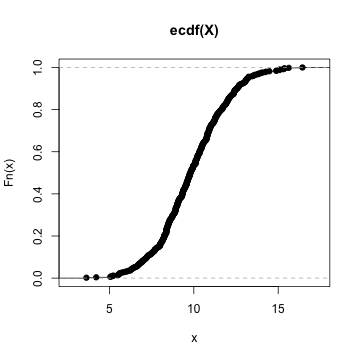
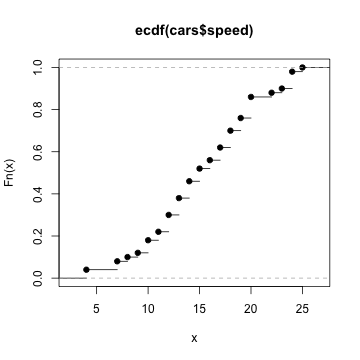
Make

diff --git a/slides/03_01_sampling.html b/slides/03_01_sampling.html
@@ -26,10 +26,6 @@ class: big, middle
 
 ## Module 3: Simulation and Resampling Methods
 
----
-class: big, middle
-
-## Probability and Sampling
 
 ---
 
@@ -37,9 +33,16 @@ class: big, middle
 
 - Probability in R
 
-- Random number generation
+- Pseudo random number generation
+
+- Case study
 
 - Random sampling
+
+---
+class: big, middle
+
+## Probability and Sampling
 
 ---
 
@@ -47,8 +50,8 @@ class: big, middle
 
 The *density function* `\(f(x)\)` for a continuous random variable `\(X\)` describes how likely it is for `\(X\)` to lie close to `\(x\)` on the support
 
-- often abbreviated as pdf (probability density function)
-- for a discrete r.v., the analogy is pmf (probability mass function)
+- often abbreviated as *pdf* (probability density function)
+- for a discrete r.v., the analogy is *pmf* (probability mass function)
 
 &lt;img src="03_01_sampling_files/figure-html/unnamed-chunk-1-1.png" style="display: block; margin: auto;" /&gt;
 
@@ -61,8 +64,8 @@ The *density function* `\(f(x)\)` for a continuous random variable `\(X\)` descr
 The *distribution function* for a continuous r.v. `\(X\)` is the probability for `\(X\)` to be at most `\(x\)`, namely 
 `$$F(x) = P(X \le x) = \int_{-\infty}^x f(x) dx.$$`
 
-- often abbreviated as cdf (cumulative distribution function)
-- For a discrete r.v., the integral becomes a summation. In this case `\(F(x)\)` can be discontinuous
+- often abbreviated as *cdf* (cumulative distribution function)
+- For a discrete r.v., the integral becomes a summation over pmf values. In this case `\(F(x)\)` can be discontinuous
 &lt;!-- - `\(F(x)\)` is the probability for `\(X\)` to be at most `\(x\)` --&gt;
 &lt;img src="03_01_sampling_files/figure-html/unnamed-chunk-2-1.png" style="display: block; margin: auto;" /&gt;
 - `pnorm(x, mean, sd)` returns the normal cdf values
@@ -88,7 +91,7 @@ For any probability `\(p \in [0,1]\)`, a `\(p\)`-quantile of the distribution is
 
 
 ```r
-*X &lt;- rnorm(500, 10, 2) # X ~ N(10, 2^2)
+X &lt;- rnorm(500, 10, 2) # X ~ N(10, 2^2)
 hist(X, freq=FALSE)
 xx &lt;- seq(0, 20, length.out=100)
 lines(xx, dnorm(xx, 10, 2))
@@ -97,6 +100,40 @@ lines(xx, dnorm(xx, 10, 2))
 &lt;img src="03_01_sampling_files/figure-html/unnamed-chunk-4-1.png" style="display: block; margin: auto;" /&gt;
 
 - The histogram of the random sample will approximate the underlying density, given a large sample
+
+---
+
+## A table of distributions R knows
+
+| **Distribution** | **R function** | **Arguments** |
+|---------|----------|---------|
+|Beta | `*beta` | `shape1, shape2`|
+|Binomial| `*binom`| `size, prob`|
+|Cauchy| `*cauchy` | `location, scale`|
+|Chi-square| `*chisq` | `df`|
+|Exponential| `*exp` | `rate`|
+|F| `*F` | `df1, df2`|
+|Gamma| `*gamma`| `shape, rate/scale`|
+|Geometric | `*geom` | `prob`|
+|Poisson| `*pois` | `lambda`|
+|Student's `\(t\)` | `*t` | `df`|
+|Uniform | `*unif` | `min, max`|
+
+E.g., `dt/pt/qt/rt` stand for the density/cdf/quantile/random sample for a `\(t\)`-distribution
+
+---
+
+class: inverse
+
+## Your turn
+
+
+&lt;img src="images/green.png" width=20&gt; Generate a random sample of size `\(n=500\)` from the Beta(1,1)
+
+&lt;img src="images/blue.png" width=20&gt; Show the histogram of the random sample (use `freq=FALSE` to show the relative frequency). Overlay the density function (pdf) of a Beta(1, 1) random variable
+
+&lt;img src="images/green.png" width=20&gt; Generate a random sample of 100 biased coin flips, where the head probability is 0.6. Find the proportion of heads in your sample
+G
 
 ---
 
@@ -113,12 +150,12 @@ where `\(\mathbf{1}\{A\}\)` is the indicator function that equals 1 if `\(A\)` i
 
 
 ```r
-Fn &lt;- ecdf(X)
+Fn &lt;- ecdf(cars$speed)
 Fn(c(5, 10, 15))
 ```
 
 ```
-## [1] 0.004 0.536 0.986
+## [1] 0.04 0.18 0.52
 ```
 
 ```r
@@ -127,106 +164,89 @@ plot(Fn)
 
 &lt;img src="03_01_sampling_files/figure-html/unnamed-chunk-5-1.png" style="display: block; margin: auto;" /&gt;
 
-
 ---
 
-## A table of distributions R knows
-
-| **Distribution** | **R function** | **Arguments** |
-|---------|----------|---------|
-|Beta | `*beta` | `shape1, shape2, ncp`|
-|Binomial| `*binom`| `size, prob`|
-|Cauchy| `*cauchy` | `location, scale`|
-|Chi-square| `*chisq` | `df, ncp`|
-|Exponential| `*exp` | `rate`|
-|F| `*F` | `df1, df2, ncp`|
-|Gamma| `*gamma`| `shape, rate/scale`|
-|Geometric | `*geom` | `prob`|
-|Poisson| `*pois` | `lambda`|
-|Student's `\(t\)` | `*t` | `df, ncp`|
-|Uniform | `*unif` | `min, max`|
-
-E.g., `dt/pt/qt/rt` stand for the density/cdf/quantile/random sample for a `\(t\)`-distribution
-
----
-
-## Random number generation
+## Pseudo random number generation
 
 
 ```r
-runif(1)
+runif(3)
 ```
 
 ```
-## [1] 0.7092283
+## [1] 0.04003409 0.41716139 0.43148201
 ```
 
 ```r
-runif(1)
+runif(3)
 ```
 
 ```
-## [1] 0.7349194
+## [1] 0.3970556 0.4666815 0.2850684
 ```
 
-- The random numbers you generated will be most likely different, since they are random afterall...
+- The random numbers you generated will be most likely different, since they are random afterall
 
-- But truely random numbers are very hard to produce -- e.g., they come from astronomical noise or radioactive decay -- so are impractical for programs
+- But in fact, for efficiency, programs uses *pseudo-random* numbers.
+These are generated from deterministic algorithms but behave like random numbers
 
-- Programs uses *pseudo-random* numbers, which are generated from deterministic algorithms but behave like random numbers
+- Truely random numbers are very hard to produce -- e.g., they come from astronomical noise or radioactive decay -- so are impractical for programs
 
 ---
 
-- The pseudo-random numbers are generated from a *random seed*, which determines the sequence of numbers generated
+- The pseudo-random numbers are generated from a *random seed*
+
+- Once the random seed is set, the entire the sequence of numbers subsequently generated will be determined
 
 - Use `set.seed(seedNumber)` to set the seed
 
 
 ```r
-set.seed(2)
-runif(1)
+set.seed(1)
+runif(3)
 ```
 
 ```
-## [1] 0.1848823
+## [1] 0.2655087 0.3721239 0.5728534
 ```
 
 ```r
-set.seed(2)
-runif(1)
+set.seed(1)
+runif(3)
 ```
 
 ```
-## [1] 0.1848823
+## [1] 0.2655087 0.3721239 0.5728534
 ```
 
-- Setting the random seed will make random number generation and procedures involving randomness reproducible, 
+- .style[If your data analysis involves randomness, make sure to set seed before performing the analysis.] This will make your analysis reproducible and help isolating issues
 
-- This is a good practice because someone else running the code will see exactly the same as what you see right now
-
-- .style[Make sure to always set seed before performing analyses involving randomness]
+- .style[Don't set seed within a function. The users of the function would set seed before calling the function]
 
 ---
 
-## Case study: Simulating Customer Arrival
+## Case study: Simulating customer arrival
 
-Suppose that the arrival of customers at a McDonald at lunch time follows a Poisson process with rate 0.5 customers per minute.
-That is to say, the waiting time between the arrivals of customers follow an exponential distribution with rate `\(\lambda=0.5\)`. 
-The waiting time of the first 10 customers is
+We are going to simulate the arrival of customers at a McDonald at lunch time.
+
+Customers arrive at a McDonald following a Poisson process with rate 0.5 customers per minute.
+That is to say, the waiting time between the arrivals of customers follows an exponential distribution with rate `\(\lambda=0.5\)`. 
+
+On a particular day, the waiting time of the first 10 customers is
 
 ```r
 n &lt;- 10
-(wait &lt;- rexp(n))
-##  [1] 0.40474807 0.14665267 1.73070972 0.08952618 0.66689763 1.07436686
-##  [7] 1.51162930 1.31427591 0.15653028 0.74511896
+(wait &lt;- rexp(n, rate=0.5))
+##  [1] 0.2795905 0.8721373 5.7899371 2.4591241 1.0793657 1.9131350 0.2940920
+##  [8] 2.7814703 1.5240597 2.4752071
 ```
 
 The arrival time of the `\(i\)`th customer is
 
 ```r
 (arrival &lt;- cumsum(wait))
-##  [1] 0.4047481 0.5514007 2.2821105 2.3716366 3.0385343 4.1129011 5.6245304
-##  [8] 6.9388063 7.0953366 7.8404556
+##  [1]  0.2795905  1.1517278  6.9416649  9.4007890 10.4801546 12.3932896
+##  [7] 12.6873816 15.4688519 16.9929116 19.4681187
 ```
 
 ---
@@ -235,13 +255,32 @@ The number of customers in the restuarant (assuming none left) at any given time
 
 ```r
 Fn &lt;- ecdf(arrival)
-tVec &lt;- seq(0, 5, length.out=1000)
+tVec &lt;- seq(0, 20, length.out=1000)
 plot(tVec, Fn(tVec) * n, xlab='t', ylab="Number of Customers", type="l")
 ```
 
 &lt;img src="03_01_sampling_files/figure-html/unnamed-chunk-10-1.png" style="display: block; margin: auto;" /&gt;
 
+---
 
+How likely are we going to find the restaurant gets busy and has at least 3 customers within 5 minutes after it opens?
+
+
+```r
+nDays &lt;- 100
+n &lt;- 3
+busy &lt;- purrr::map_lgl(seq_len(nDays), function(i) {
+  wait &lt;- rexp(n, rate=0.5)
+  wait3 &lt;- sum(wait)
+  wait3 &lt;= 5
+})
+
+mean(busy)
+```
+
+```
+## [1] 0.44
+```
 ---
 
 ## Sampling from a vector
@@ -254,7 +293,7 @@ sample(1:5, 1)
 ```
 
 ```
-## [1] 1
+## [1] 5
 ```
 
 - The default `replace=FALSE` *samples without replacement*. You will not get the same observation twice
@@ -264,7 +303,7 @@ sample(1:5, 5) # same as sample(5)
 ```
 
 ```
-## [1] 1 4 3 2 5
+## [1] 2 4 3 5 1
 ```
 
 ---
@@ -276,7 +315,7 @@ sample(1:5, 10, replace=TRUE) # same as sample(5)
 ```
 
 ```
-##  [1] 5 3 1 5 5 2 2 3 4 3
+##  [1] 5 2 1 4 5 2 1 5 5 1
 ```
 
 - `prob` specifies the probability weights for obtaining the elements of the vector being sampled (e.g., for simulating a biased coin). The default is equal weight
@@ -286,7 +325,7 @@ sample(c("H", "T"), 10, replace=TRUE, prob=c(0.8, 0.2))
 ```
 
 ```
-##  [1] "H" "T" "H" "T" "H" "H" "H" "T" "H" "H"
+##  [1] "H" "H" "T" "H" "H" "H" "T" "H" "H" "T"
 ```
 
 ---
@@ -295,14 +334,11 @@ class: inverse
 
 ## Your turn
 
+&lt;img src="images/green.png" width=20&gt; Sample 3 random rows from `iris` without replacement
 
-&lt;img src="images/green.png" width=20&gt; Generate a random sample of size `\(n=10\)` from the following distributions: (a). Beta(1,2) and (b). Uniform(0,100)
+&lt;img src="images/green.png" width=20&gt; Randomly shuffle the 3 rows
 
-&lt;img src="images/green.png" width=20&gt; Sample 5 random rows from `iris` without replacement
-
-&lt;img src="images/green.png" width=20&gt; Randomly shuffle the 5 rows
-
-&lt;img src="images/green.png" width=20&gt; Sample 10 random rows from `iris` with replacement
+&lt;img src="images/green.png" width=20&gt; Sample 100 random rows from `iris` with replacement
 
     </textarea>
 <style data-target="print-only">@media screen {.remark-slide-container{display:block;}.remark-slide-scaler{box-shadow:none;}}</style>
